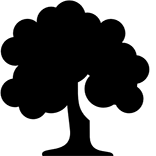
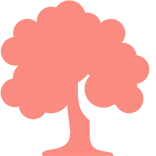
WIP 75%?

diff --git a/index.html b/index.html
@@ -56,19 +56,19 @@
           <div class="col1">
             <h3>KALIKASAN</h3>
             <p>
-              <span class="colimg"><img src="tree1.png" alt="light" /></span>Lorem ipsum dolor sit amet, consectetur adipisicing elit, sed do eiusmod tempor incididunt ut labore et dolore magna aliqua. Ut enim ad minim veniam, quis nostrud exercitation ullamco laboris nisi ut aliquip ex ea commodo consequat. Duis aute irure dolor in reprehenderit in voluptate velit esse cillum dolore eu fugiat nulla pariatur.
+              <span class="colimg"><img src="tree1.png" alt="tree1" /></span>Lorem ipsum dolor sit amet, consectetur adipisicing elit, sed do eiusmod tempor incididunt ut labore et dolore magna aliqua. Ut enim ad minim veniam, quis nostrud exercitation ullamco laboris nisi ut aliquip ex ea commodo consequat. Duis aute irure dolor in reprehenderit in voluptate velit esse cillum dolore eu fugiat nulla pariatur.
             </p>
           </div> <!-- end col1 div -->
           <div class="col1">
             <h3>KALIKASAN</h3>
             <p>
-              <span class="colimg"><img src="tree2.png" alt="light" /></span>Lorem ipsum dolor sit amet, consectetur adipisicing elit, sed do eiusmod tempor incididunt ut labore et dolore magna aliqua. Ut enim ad minim veniam, quis nostrud exercitation ullamco laboris nisi ut aliquip ex ea commodo consequat. Duis aute irure dolor in reprehenderit in voluptate velit esse cillum dolore eu fugiat nulla pariatur.
+              <span class="colimg"><img src="tree2.png" alt="tree2" /></span>Lorem ipsum dolor sit amet, consectetur adipisicing elit, sed do eiusmod tempor incididunt ut labore et dolore magna aliqua. Ut enim ad minim veniam, quis nostrud exercitation ullamco laboris nisi ut aliquip ex ea commodo consequat. Duis aute irure dolor in reprehenderit in voluptate velit esse cillum dolore eu fugiat nulla pariatur.
             </p>
-          </div> <!-- end col2 div -->
+          </div> <!-- end col1 div -->
           <div class="col1">
             <h3>KALIKASAN</h3>
             <p>
-              <span class="colimg"><img src="tree3.png" alt="light" /></span>Lorem ipsum dolor sit amet, consectetur adipisicing elit, sed do eiusmod tempor incididunt ut labore et dolore magna aliqua. Ut enim ad minim veniam, quis nostrud exercitation ullamco laboris nisi ut aliquip ex ea commodo consequat. Duis aute irure dolor in reprehenderit in voluptate velit esse cillum dolore eu fugiat nulla pariatur.
+              <span class="colimg"><img src="tree3.png" alt="tree3" /></span>Lorem ipsum dolor sit amet, consectetur adipisicing elit, sed do eiusmod tempor incididunt ut labore et dolore magna aliqua. Ut enim ad minim veniam, quis nostrud exercitation ullamco laboris nisi ut aliquip ex ea commodo consequat. Duis aute irure dolor in reprehenderit in voluptate velit esse cillum dolore eu fugiat nulla pariatur.
             </p>
           </div> <!-- end col3 div -->
       </div> <!-- end container1 div -->
@@ -97,6 +97,46 @@
         </div> <!-- end img1 div -->
       </div> <!-- end container2 div -->
     </div> <!-- end row2 div -->
+
+    <div class="row3">
+
+      <div class="col2">
+        <p class="col2title">About Us
+          <hr class="col2hr">
+          <br>
+        </p>
+        <p class="loremtxt">
+          Lorem ipsum dolor sit amet, consectetur adipisicing elit, sed do eiusmod tempor incididunt ut labore et dolore magna aliqua. Ut enim ad minim veniam, quis nostrud exercitation ullamco laboris nisi ut aliquip ex ea commodo consequat. Duis aute irure dolor in reprehenderit in voluptate velit esse cillum dolore eu fugiat nulla pariatur. Excepteur sint occaecat cupidatat non proident, sunt in culpa qui officia deserunt mollit anim id est laborum.
+        </p>
+        <p class="loremtxt">
+            Quisque rutrum. Aenean imperdiet. Etiam ultricies nisi vel augue. Curabitur ullamcorper ultricies nisi. Nam eget dui. Etiam rhoncus. Maecenas tempus, tellus eget condimentum rhoncus, sem quam semper libero, sit amet adipiscing sem neque sed ipsum. Nam quam nunc, blandit vel, luctus pulvinar, hendrerit id, lorem. Maecenas nec odio et ante tincidunt tempus. Donec vitae sapien ut libero venenatis faucibus. Nullam quis ante. Etiam sit amet orci eget eros faucibus tincidunt. Duis leo. Sed fringilla mauris sit amet nibh. Donec sodales sagittis magna. Sed consequat, leo eget bibendum sodales, augue velit cursus nunc,
+        </p>
+      </div> <!-- end col2 div -->
+      <div class="col2">
+        <p class="col2title">Why Us
+          <hr class="col2hr">
+          <br>
+        </p>
+
+        <ul class="whyus">
+          <span class="spanwhyus"><li class="liwhyus"><img src="whyus1.png" alt="whyus1" /></li></span>
+          <p>
+            Lorem ipsum dolor sit amet, consectetur adipisicing elit, sed do eiusmod tempor incididunt ut labore et dolore magna aliqua. Ut enim ad minim veniam, quis nostrud exercitation ullamco laboris nisi ut aliquip ex ea commodo consequat. Duis aute irure dolor in reprehenderit in voluptate velit esse cillum dolore eu fugiat nulla pariatur. Excepteur sint occaecat cupidatat non proident, sunt in culpa qui officia deserunt mollit anim id est laborum.
+          </p>
+          <span class="spanwhyus"><li class="liwhyus"><img src="whyus2.png" alt="whyus2" /></li></span>
+          <p>
+            Lorem ipsum dolor sit amet, consectetur adipisicing elit, sed do eiusmod tempor incididunt ut labore et dolore magna aliqua. Ut enim ad minim veniam, quis nostrud exercitation ullamco laboris nisi ut aliquip ex ea commodo consequat. Duis aute irure dolor in reprehenderit in voluptate velit esse cillum dolore eu fugiat nulla pariatur. Excepteur sint occaecat cupidatat non proident, sunt in culpa qui officia deserunt mollit anim id est laborum.
+          </p>
+          <span class="spanwhyus"><li class="liwhyus"><img src="whyus3.png" alt="whyus3" /></li></span>
+          <p>
+            Lorem ipsum dolor sit amet, consectetur adipisicing elit, sed do eiusmod tempor incididunt ut labore et dolore magna aliqua. Ut enim ad minim veniam, quis nostrud exercitation ullamco laboris nisi ut aliquip ex ea commodo consequat. Duis aute irure dolor in reprehenderit in voluptate velit esse cillum dolore eu fugiat nulla pariatur. Excepteur sint occaecat cupidatat non proident, sunt in culpa qui officia deserunt mollit anim id est laborum.
+          </p>
+          
+        </ul>
+
+
+      </div> <!-- end col2 div -->
+    </div> <!-- end row3 div -->
 
     <div class="footer">
       Footer

diff --git a/stylesheet.css b/stylesheet.css
@@ -7,18 +7,27 @@ div {
 }
 
 hr {
-  height: 2px;
+  /*height: 1px;*/
   width: 80%;
-  background-color: #00933B;
+  /*background-color: #00933B;*/
   box-shadow: 2px 2px 5px #888;
+}
 
+.col2hr {
+  width: 100%;
+  float: left;
+  margin-top: -3px;
+}
+
+.loremtxt {
+  line-height: 1.5;
 }
 
 .socialmedia {
   width: 100%;
   height: 35px;
-  background-color: #E2A55C;
-
+  /*background-color: #E2A55C;*/
+  background-color: #eee9d5;
 }
 
 .ulsns {
@@ -29,14 +38,12 @@ hr {
 
 .sns {
   display: inline;
-
 }
 
 .navbar {
   width: 100%;
   height: 100px;
-  background-color: #eee;
-
+  background-color: #726457;
 }
 
 .ulnavlist {
@@ -52,6 +59,14 @@ hr {
   padding: 10px;
 }
 
+.col2title {
+  text-decoration: none;
+  font-family: Trebuchet MS;
+  font-size: 22px;
+  color: #eee;
+  line-height: 5%;
+}
+
 .navlink {
   text-decoration: none;
   font-family: Trebuchet MS;
@@ -64,9 +79,15 @@ hr {
 }
 
 .row2 {
-  background-color: #eee;
+  background-color: #726457;
   width: 100%;
   /*height: 400px;*/
+}
+
+.row3 {
+  background: #726457;
+  width: 100%;
+  display: inline-flex;
 }
 
 .slider-holder {
@@ -124,7 +145,8 @@ hr {
 }
 
 .small-header {
-  background-color: #E2A55C;
+  /*background-color: #E2A55C;*/
+  background-color: #fa8b80;
 }
 
 .tagline {
@@ -149,12 +171,23 @@ hr {
   /*display: inline-flex;*/
   width: 32.5%;
   padding: 0 5px 0 5px;
+  color: #eee;
 }
 
-.colimg {
+.colimg, .spanwhyus {
   float: left;
 }
 
 .img1 {
   padding: 9px;
+}
+
+.col2 {
+  padding: 15px;
+  width: 50%;
+}
+
+.liwhyus {
+  list-style-type: none;
+  display: inline-grid;
 }
